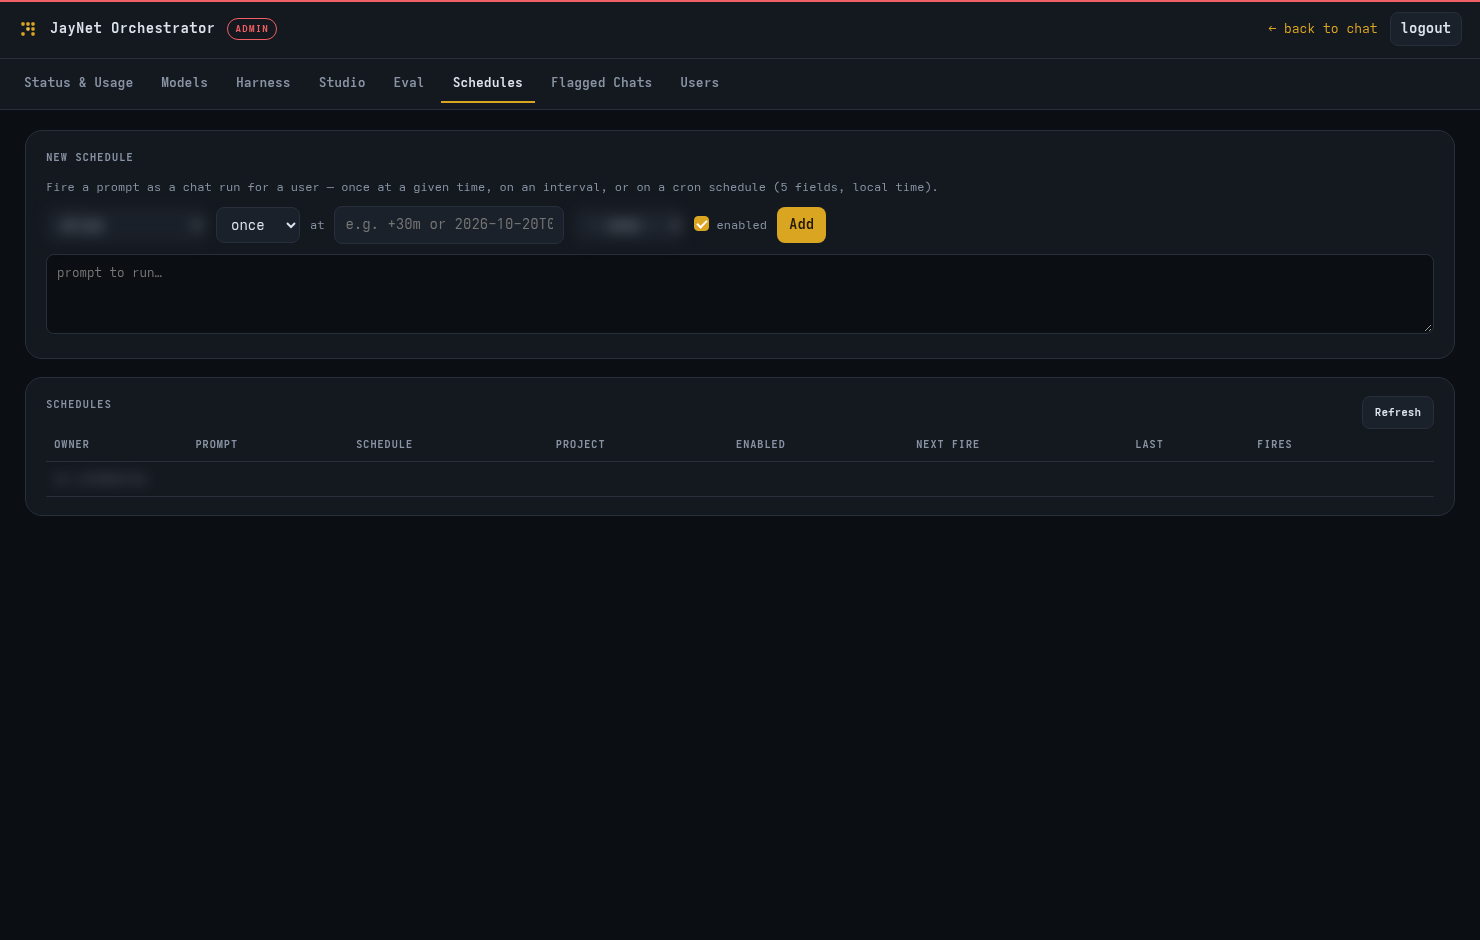
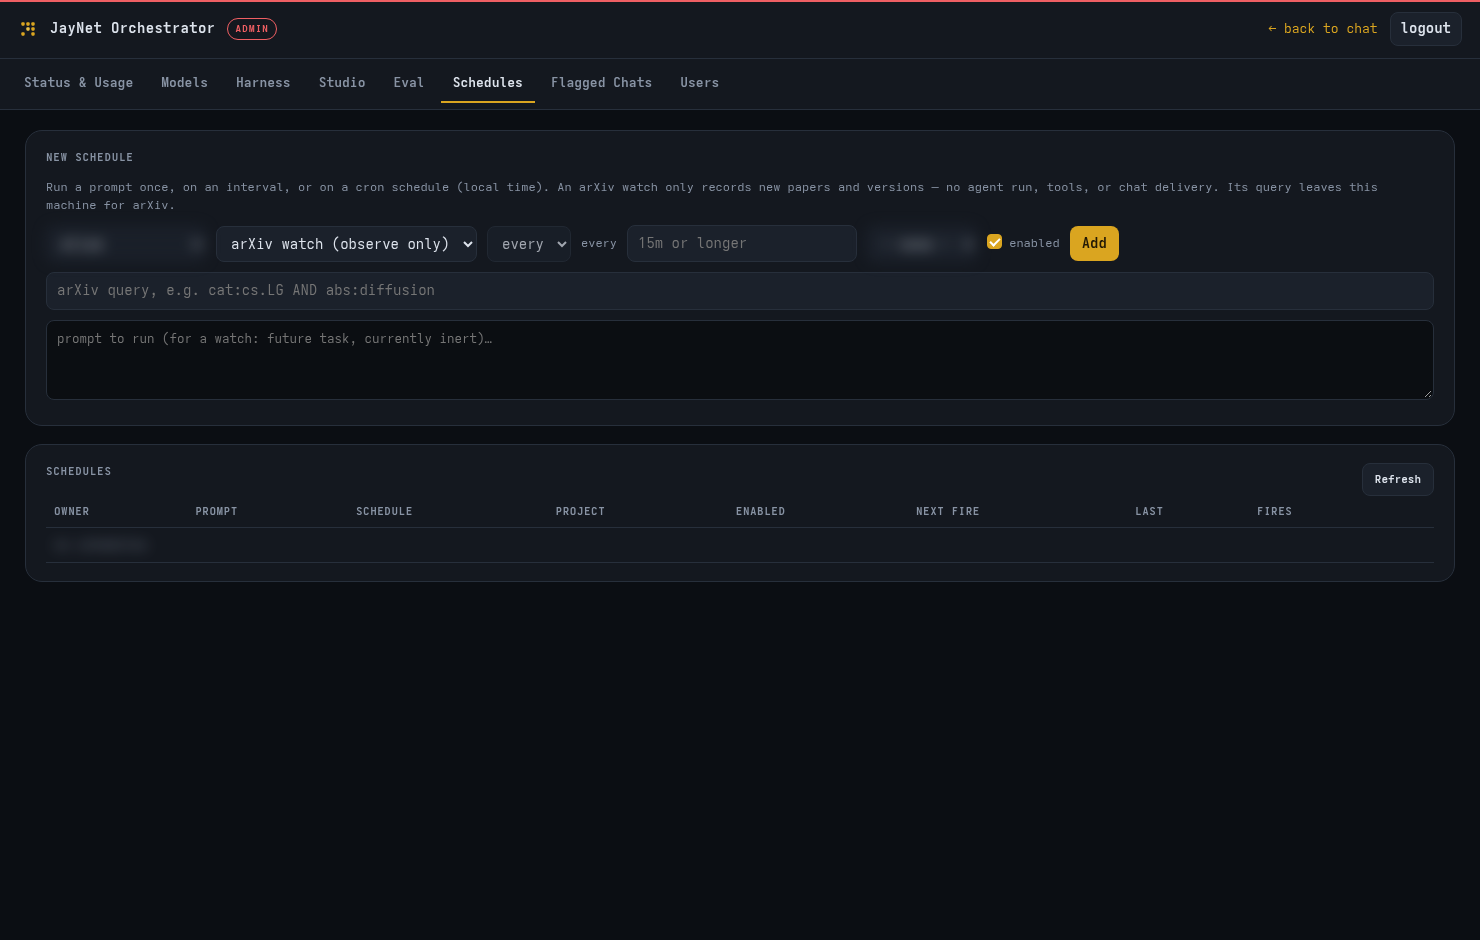
release: v1.41.4 — audit #34 follow-ups

diff --git a/tests/test_brain_overlays.py b/tests/test_brain_overlays.py
@@ -2,12 +2,17 @@
 from __future__ import annotations
 
 import copy
+import hashlib
 import sqlite3
+import threading
+from concurrent.futures import ThreadPoolExecutor
+from types import SimpleNamespace
 
 import pytest
 
 from runtime import brain_overlays, eval_runner, gate_prompt
 from runtime.brain_overlays import BrainOverlayStore, StaleOverlayError
+from runtime.eval_cases import parse_case
 from runtime.eval_store import EvalStore
 from runtime.preset_store import PresetStore, brain_overlay_for, load_into_config
 
@@ -158,3 +163,88 @@ def test_result_provenance_hashes_effective_active_and_candidate_state(monkeypat
     plain = copy.deepcopy(cfg)
     plain["models"]["presets"]["brain-a"].pop("overlay")
     assert eval_runner._provenance(plain)["prompt_hash"] != active["prompt_hash"]
+
+
+def test_concurrent_accepts_serialize_and_keep_one_lesson(tmp_path, monkeypatch):
+    store = BrainOverlayStore(tmp_path / "presets.db")
+    rendezvous = threading.Barrier(2)
+    real_merge = brain_overlays.merge_overlay
+
+    def synchronized_merge(base, changes):
+        # With the transaction fix only the winner reaches this barrier; its
+        # timeout releases it, and the loser then fails the fresh base check.
+        try:
+            rendezvous.wait(timeout=0.5)
+        except threading.BrokenBarrierError:
+            pass
+        return real_merge(base, changes)
+
+    monkeypatch.setattr(brain_overlays, "merge_overlay", synchronized_merge)
+    with ThreadPoolExecutor(max_workers=2) as pool:
+        futures = [pool.submit(store.apply, "brain-a", {"prompt_addition": text},
+                               base_version=0, proposal_id=pid)
+                   for pid, text in ((1, "one"), (2, "two"))]
+        accepted = []
+        stale = 0
+        for future in futures:
+            try:
+                accepted.append(future.result())
+            except StaleOverlayError:
+                stale += 1
+    assert len(accepted) == 1 and stale == 1
+    active = store.active("brain-a")
+    assert active["version"] == 1
+    assert active["overlay"]["prompt_addition"] in ("one", "two")
+    assert len(store.history("brain-a")) == 1
+
+
+@pytest.mark.asyncio
+async def test_cross_model_variant_excludes_brain_overlay_from_judge_and_provenance(
+        monkeypatch):
+    cfg = {
+        "orchestrator": {"model": "local-orchestrator"},
+        "architect": {"threshold": 1},
+        "models": {"slots": {"brain": "brain-a"}, "presets": {"brain-a": {
+            "alias": "local-orchestrator", "overlay_version": 2,
+            "overlay_hash": "overlay-sha",
+            "overlay": {"prompt_addition": "WRONG FOR VARIANT",
+                        "tool_descriptions": {"web.search": "WRONG TOOL"},
+                        "config": {"architect.threshold": 2}},
+        }}},
+    }
+    runtime = SimpleNamespace(
+        config=cfg, model="local-orchestrator", system_prompt="BASE",
+        registry=SimpleNamespace(all=lambda: []))
+    case = parse_case("cross-model", """\
+name: Cross model
+driver: scripted
+turns:
+  - user: hi
+judge_rubric: Pass.
+""", "test")
+    ctx = eval_runner._CaseRun(
+        runtime=runtime, case=case, variant={"model": "cloud-x"},
+        ecfg={"max_cost_usd": 1.0}, guards_off=[], tools=[], budget={},
+        ask_reply="", started=0.0, case_t0=0.0,
+        transcript=[{"user": "hi", "answer": "done", "status": "ok",
+                     "tools": []}])
+    captured = {}
+
+    async def fake_judge(*args, **kwargs):
+        captured.update(args[5])
+        return {"pass": True, "score": 9.0, "notes": "ok",
+                "judge_model": "fake", "cost_usd": 0.0, "tokens": 0,
+                "error": None, "classification": "", "target": "",
+                "proposed_content": "", "what": "", "cause": "", "fix": ""}
+
+    monkeypatch.setattr(eval_runner, "_judge", fake_judge)
+    await eval_runner._grade_case(ctx)
+    assert captured["system_prompt"] == "BASE"
+    assert captured["tool_descriptions"] == {}
+    assert captured["config"]["architect.threshold"] == 1
+
+    monkeypatch.setattr(gate_prompt, "load", lambda *args: ("BASE", "test"))
+    monkeypatch.setattr(eval_runner, "_git_provenance", lambda: ("abc", 0))
+    prov = eval_runner._provenance(cfg, model="cloud-x")
+    assert prov["overlay_version"] is None and prov["overlay_hash"] is None
+    assert prov["prompt_hash"] == hashlib.sha256(b"BASE").hexdigest()[:16]

diff --git a/runtime/eval_runner.py b/runtime/eval_runner.py
@@ -333,7 +333,8 @@ def _git_provenance() -> tuple[str | None, int | None]:
     return sha, dirty
 
 
-def _provenance(cfg: dict, experiment: dict | None = None) -> dict:
+def _provenance(cfg: dict, experiment: dict | None = None,
+                model: str | None = None) -> dict:
     """The provenance columns for one result row. Every piece degrades to
     None on ANY error — a broken checkout, missing prompt file or unparsable
     preset must not lose the eval result."""
@@ -342,7 +343,8 @@ def _provenance(cfg: dict, experiment: dict | None = None) -> dict:
     from runtime import brain_overlays, paths
     from runtime.preset_store import brain_overlay_for
     sha, dirty = _git_provenance()
-    model = (cfg.get("orchestrator") or {}).get("model") or "local-orchestrator"
+    model = (model or (cfg.get("orchestrator") or {}).get("model")
+             or "local-orchestrator")
     overlay_meta = brain_overlay_for(cfg, model)
     active = overlay_meta["overlay"]
     prompt_hash = None
@@ -2434,7 +2436,8 @@ async def _grade_case(ctx: _CaseRun) -> tuple[dict, list[str]]:
     experiment = (ctx.variant or {}).get("experiment_overlay") or {}
     from runtime import brain_overlays
     from runtime.preset_store import brain_overlay_for
-    model = (getattr(runtime, "model", None)
+    model = ((ctx.variant or {}).get("model")
+             or getattr(runtime, "model", None)
              or (runtime.config.get("orchestrator") or {}).get("model"))
     active = brain_overlay_for(runtime.config, model)["overlay"]
     prompt_additions = [active["prompt_addition"],
@@ -2531,7 +2534,8 @@ async def _finalize_result(ctx: _CaseRun, store: EvalStore, judged: dict,
     fb = _fallback_fields(runtime, case_t0, ctx.fallback_tag or None)
     status, passed = _fallback_verdict(runtime, fb, status, passed, judged)
     experiment = (variant or {}).get("experiment_overlay") or {}
-    prov = _provenance(runtime.config or {}, experiment=experiment)
+    prov = _provenance(runtime.config or {}, experiment=experiment,
+                       model=(variant or {}).get("model"))
 
     row = {"test_id": case.id, "passed": passed, "score": judged["score"],
            "judge_notes": judged["notes"], "judge_model": judged["judge_model"],

diff --git a/runtime/brain_overlays.py b/runtime/brain_overlays.py
@@ -249,6 +249,10 @@ class BrainOverlayStore:
         changes = clean_overlay(changes)
         self.ensure()
         with self._conn() as conn:
+            # Serialize the whole read/merge/write sequence. Otherwise two
+            # accepts can pass the same base check and lose one lesson or hit
+            # the version/proposal uniqueness constraints.
+            conn.execute("BEGIN IMMEDIATE")
             if proposal_id is not None:
                 prior = conn.execute(
                     "SELECT * FROM preset_overlay_versions WHERE proposal_id=?",
@@ -286,6 +290,9 @@ class BrainOverlayStore:
     def rollback(self, preset: str, source_version: int) -> dict:
         self.ensure()
         with self._conn() as conn:
+            # Match apply(): snapshot selection and version allocation are one
+            # serialized write transaction.
+            conn.execute("BEGIN IMMEDIATE")
             source = conn.execute(
                 "SELECT * FROM preset_overlay_versions WHERE preset=? AND version=?",
                 (preset, int(source_version))).fetchone()

diff --git a/runtime/__init__.py b/runtime/__init__.py
@@ -1,3 +1,3 @@
 """JayNet runtime package."""
 
-__version__ = "1.41.3"
+__version__ = "1.41.4"

diff --git a/docs/releases/v1.41.4.md b/docs/releases/v1.41.4.md
@@ -1,0 +1,36 @@
+# JayNet v1.41.4 — audit #34 follow-ups
+
+This patch closes the two code findings from audit #34 and refreshes the
+associated documentation.
+
+## Reliable brain-overlay writes
+
+- `BrainOverlayStore.apply()` and `rollback()` now use `BEGIN IMMEDIATE` before
+  reading the active snapshot or allocating a version.
+- Concurrent accepts can no longer race into uniqueness-constraint HTTP 500s or
+  append a successor that silently drops another accepted lesson.
+- A competing proposal now receives the intended stale-base response; retrying
+  the same proposal remains idempotent. Regression coverage forces the old race.
+
+## Cross-model eval state
+
+- Judge state and result provenance now resolve the overlay from the variant's
+  actual model instead of the configured brain.
+- Cloud and benchmark arms therefore no longer record or get judged against
+  prompt, skill, tool and config text they never received.
+
+## Documentation and checks
+
+- Refreshed `admin-schedules.png` with the observe-only arXiv controls and
+  `admin-models-servers.png` with process usage controls.
+- Updated the scheduler implementation references, process-usage code map and
+  Schedules caption. Banked the eight-line mypy baseline shrink.
+
+## Verification
+
+**2,745 tests pass**, along with Ruff, complexity, mypy, prompt/documentation
+checks, dependency audits, ShellCheck and release-metadata checks.
+
+## Upgrading
+
+Pull and restart JayNet. No configuration or database action is required.

diff --git a/docs/work-items.md b/docs/work-items.md
@@ -36,7 +36,7 @@ promise.
 ## Current failure windows
 
 The scheduler currently advances `schedules.json` before launching the run
-(`web/routes_procs.py`). A crash afterwards consumes the occurrence without a
+(`web/scheduler_runtime.py`). A crash afterwards consumes the occurrence without a
 run or history. Completion then writes `schedule_runs`, JSON `last_status`, and
 the scheduled chat separately, so a crash can lose or duplicate delivery.
 Concurrent scheduled chat completion also reads and replaces the whole chat,
@@ -185,7 +185,7 @@ audit, not a queue.
 2. **Idempotent delivery:** add `ChatStore.append_scheduled_turn`; test duplicate
    delivery and two concurrent completions without lost turns.
 3. **Scheduler integration:** adapt the current tick/fire seam in
-   `web/routes_procs.py`; preserve `_DenyConfirm`, role/tool gates, project and
+   `web/scheduler_runtime.py`; preserve `_DenyConfirm`, role/tool gates, project and
    scratch roots, bus/task ownership, history, and recurrence behavior. Make
    `mark_fired` conditional on the expected occurrence and enabled definition.
 4. **Startup and lifecycle:** register recovery and dispatch hooks, cancel queued

diff --git a/CHANGELOG.md b/CHANGELOG.md
@@ -5,6 +5,21 @@ contract lives in `docs/api.md`, upgrade procedure in `docs/upgrading.md`.
 Every tagged version gets a release file in `docs/releases/vX.Y.Z.md`
 (cut from this changelog — don't let it drift again).
 
+## 1.41.4 — 2026-11-01
+
+- **Brain overlay concurrency:** accept and rollback now serialize their full
+  read/merge/write transactions. Concurrent accepts produce a clean stale-base
+  response instead of HTTP 500 or a successor that silently drops a lesson.
+- **Cross-model eval correctness:** judge state and result provenance resolve
+  overlays from the variant's actual model, never from the configured brain.
+- **Docs and checks:** refreshed Schedules and model-server screenshots, fixed
+  the scheduler code map, documented process usage, and banked the mypy shrink.
+
+## 1.41.3 — 2026-11-01
+
+- **LiteLLM auth errors:** install Prisma in the stateless proxy environment so
+  a missing API key returns HTTP 401 instead of an error-handler HTTP 500.
+
 ## 1.41.2 — 2026-10-30
 
 - **Versioned per-brain overlays:** accepted eval lessons now target the brain

diff --git a/docs/code-map.md b/docs/code-map.md
@@ -34,6 +34,7 @@ split across `loop.py`, `dispatch_guards.py`, `turn_guards.py`,
 | File | What lives here |
 |---|---|
 | `runtime/process_manager.py` | `ProcessManager` — autostart/stop/monitor/restart of llama-servers and plugin sidecars. |
+| `runtime/model_usage.py` | Per-process RAM, per-GPU VRAM, and model-artifact disk usage behind the admin process usage view. |
 | `runtime/serving.py` | Serve primitives: launch/stop/wait-healthy, VRAM probes, port picking, litellm register/deregister. |
 | `runtime/preset_store.py` | `PresetStore` — presets.db (SQLite), slot assignment (`resolve_slot`/`set_slot`), seeds from `presets/*.conf`; per-model harness profiles (`profile` column, `profile_for` alias resolution — §4b). |
 | `runtime/serve_preset.py` | Flat KEY=VALUE preset parser (model path, MMPROJ, ALIAS, llama-server flags). |

diff --git a/docs/releases/v1.41.3.md b/docs/releases/v1.41.3.md
@@ -1,0 +1,17 @@
+# JayNet v1.41.3 — LiteLLM auth error handling
+
+This patch adds Prisma to the otherwise stateless LiteLLM proxy environment.
+LiteLLM 1.102.2 imports it from the authentication error handler even without a
+configured database; without the package, a missing API key caused an HTTP 500
+instead of the intended HTTP 401.
+
+Only `prisma` and its `nodeenv` dependency were added, not the database extra.
+
+## Upgrading
+
+Pull, sync the proxy environment and restart LiteLLM:
+
+```bash
+uv pip install --python litellmenv/bin/python -r requirements-litellm.lock
+systemctl --user restart litellm-proxy.service
+```

diff --git a/README.md b/README.md
@@ -31,7 +31,7 @@ on my side made it impossible not to use the power of several large LLMs to deve
 ideas further. Everything is regularly bug and security audited and I run it on my local hardware
 and fix things as they roll — it has been my daily driver for months.
 
-Status: **v1.41.2** (semver, [changelog](CHANGELOG.md)) — daily-driven and
+Status: **v1.41.4** (semver, [changelog](CHANGELOG.md)) — daily-driven and
 feature-rich; most quirks were found by using it.
 License: MIT ([THIRD_PARTY_NOTICES.md](THIRD_PARTY_NOTICES.md) covers the two
 vendored JS libraries and the adapted skills).

diff --git a/docs/admin.md b/docs/admin.md
@@ -650,7 +650,7 @@ with a full management view here.
   keep firing — you manage them in this table. The eval-suite scheduler
   under Eval is a separate, eval-only mechanism.
 
-![Admin → Schedules: the create form (owner, kind, timing, project) and the schedules table with next fire, last status and per-row history](../screenshots/admin-schedules.png)
+![Admin → Schedules: the create form (owner, source, query or prompt, timing, project), schedule state and per-row work/attempt/delivery history](../screenshots/admin-schedules.png)
 
 ## Users
 
